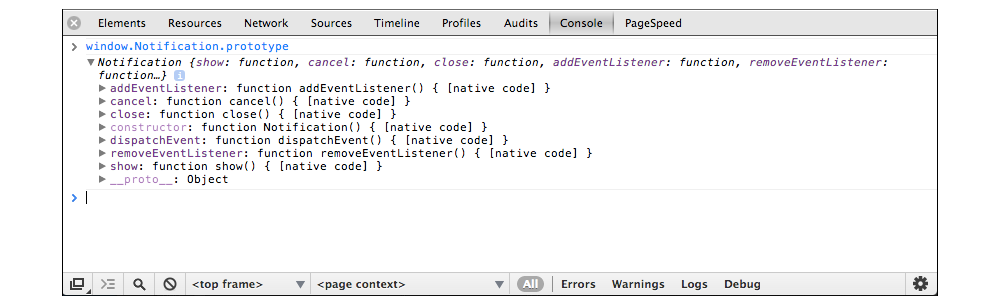
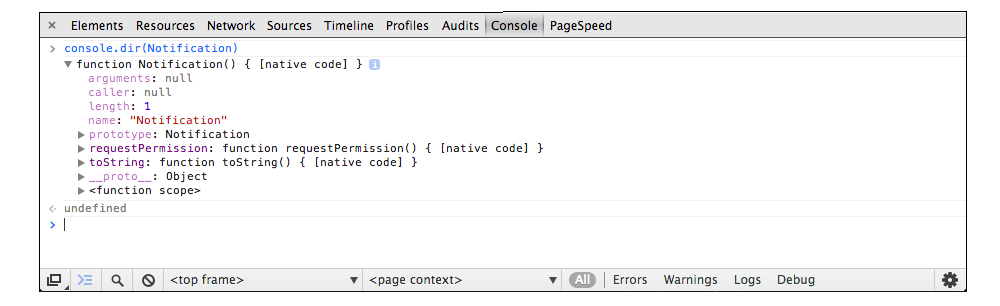
Web Notifications blog post is ready.

Changed region(s): [[0.031, 0.0294, 0.992, 0.7059], [0.031, 0.8529, 0.961, 0.9706]]

diff --git a/source/_posts/2013-07-15-the-messy-state-of-web-notifications-in-chrome-safari-blink-webkit.md b/source/_posts/2013-07-15-the-messy-state-of-web-notifications-in-chrome-safari-blink-webkit.md
@@ -1,17 +1,17 @@
 ---
 layout: post
-title: "The messy world of Web Notifications in Chrome, Safari, Blink and Webkit"
-date: 2013-07-09 01:00
+title: "The messy state of Web Notifications in Chrome's Blink, and Safari's Webkit"
+date: 2013-07-15 19:21
 published: true
 comments: true
 categories:
 ---
 
-Lately I've been working with the [Web Notifications API](http://notifications.spec.whatwg.org/), and while working I realized that Chrome ins't following the specification. In this post I will take you through the messy world of Web Notifications.
+Lately I've been working with the [Web Notifications API](http://notifications.spec.whatwg.org/), and while working I realized that Chrome ins't following the specification. In this post I will take you through the messy state of Web Notifications.
 
 Showing desktop notifications from the web, was a web-dream for many frontend-developers, until [Fluid](http://fluidapp.com/) enabled it via an [Growl](http://growl.info/) integration in OSX and exposed it as JavaScript API in Fluid. It became quite popular, and many web2.0 cool cats like [Basecamp](http://37signals.com/svn/posts/797-fluid-wrap-your-favorite-web-apps-in-their-own-browser) integrated with it, either themselves or in user scripts by their users.
 
-Soon after followed WebKit-based browsers via it's own notification system, and exposed as an webkit-prefixed API. The Webkit notifications was available on all major platforms, but never became popular. Most likely because the of each notification wasn't pretty.
+Soon after followed WebKit-based browsers via it's own notification system, and exposed as an webkit-prefixed API. The Webkit notifications was available on all major platforms, but never became popular. Most likely because the of each notification wasn't what I could call pretty.
 
 {% img "" /images/webkit_notification.png "Source: http://www.neowin.net/news/chrome-gets-desktop-notifications-through-webkit" %}
 
@@ -27,7 +27,7 @@ This is where the mess began.
 
 The W3C Web Notifications specification (now referred as the "the standard") is quite simplistic, and exposes  a ```Notification``` object to represent a single notification.
 
-Below is the IDL for the standardized API. Here it's important to notice the two static attributes used to request and get permission state.
+Below is the IDL for the standardized API. Here it's important to notice the static attribute ```permission``` which is get the current permission state.
 
 	[Constructor(DOMString title, optional NotificationOptions options)]
 	interface Notification : EventTarget {
@@ -66,14 +66,14 @@ Below is the IDL for the standardized API. Here it's important to notice the two
 
 ## Chrome and it's faulty implementation.
 
-The reason why I'm highlighting the two static attributes ```permission``` and  ```requestPermission```, is because they simply are missing in Chrome.
-
-Below is a screenshot of me inspecting the ```Notification``` object's prototype in Chrome 27's DevTools.
+The reason why I'm highlighting the static accessor ```permission``` is because it's problematic in Chrome. In the screenshot below I'm inspecting the ```Notification``` in Chrome 27's DevTools.
 {% img "" /images/chrome_web_notifications.png "" %}
 
-This makes it impossible to request or get the current permission state in Chrome when trying to follow the standard. Since Chrome still keeps the [non-standard webkit-prefixed API](http://www.chromium.org/developers/design-documents/desktop-notifications/api-specification) around, you have to fallback to that, which is completely different then the standard.
+As you can see, the ```permission``` attribute is simply missing from the ```Notification```, which makes it impossible to get the current permission state in Chrome.
 
-The webkit-specific API is exposed on ```webkitNotifications```, webkit-prefixed and in plural. The method ```requestPermission``` has the same signature as the standard, but to get the permission-state you have to call ```checkPermission``` which returns an ```integer```, and not a ```string``` as in the standard.
+Luckily since Chrome still keeps the [non-standard webkit-prefixed API](http://www.chromium.org/developers/design-documents/desktop-notifications/api-specification) around, we can to fallback to it, but it's has a completely different return signature than the standard. Sigh.
+
+The webkit-specific API is exposed on ```webkitNotifications```, webkit-prefixed and in plural. To get the current permission-state you have to call ```checkPermission``` which returns an ```integer```, and not a ```string``` as defined in the standard.
 
 This is messy, but it gets worse.
 
@@ -92,7 +92,7 @@ When Safari 6 was released, the Web Notifications specification was modeled afte
 	    attribute DOMString[] privilegedFeatures;
 	};
 
-This means we have WebKit builds out there, where you need to call the function ```permissionLevel``` to get the current permisssion state. So even with a standard in place, we need to handle the different versions of the standard.
+This means we got WebKit builds out there, where you need to call the function ```permissionLevel``` to get the current permisssion state. So even with a standard in place, we need to handle the different versions of the standard.
 
 That's messy!
 
@@ -102,7 +102,9 @@ To make keep things sane, an engineer from Apple, committed a [change in Webkit]
 
 So wouldn't it be nice if all these messy parts were abstracted away, so you as a front-end developer, just could show those nice notifications?
 
-We already a bunch of library out there like [notify.js](http://notifyjs.com/), to help even out the browser differences, but I haven't been able to find a library that caters for these specific problems in Safari and Chrome. Existing libraries also provides an new API, which isn't what I want, since I quite like the API defined in the specification. I'm not interesting in emulating the API if Web Notifications isn't available The aim is to fix the faulty implementation.
+We already a bunch of library out there like [notify.js](http://notifyjs.com/), to help even out the browser differences, but I haven't been able to find a library that caters for these specific problems in Safari and Chrome. Existing libraries also provides an new API, which isn't what I want, since I quite like the API defined in the specification.
+
+I'm not interesting in emulating the API if Web Notifications isn't available The aim is to fix the faulty implementation.
 
 What we need is a kind of polyfil, to even out the messy implementations within Webkit and Blink, used by Chrome and Safari.
 
@@ -110,9 +112,14 @@ What we need is a kind of polyfil, to even out the messy implementations within 
 
 Let me introduce [WebNotification.js](https://github.com/auchenberg/WebNotification.js), a polyfil for ```Notification```, that makes Chrome and other webkit-based browsers standards-compliant.
 
-Simply construct ```Notification``` and it returns an instance of a ```Notification```, like you would expect. When requesting permissions, it follows the specification(s), and fallsback to the prefixed webkit API, if available.
+Simply construct ```Notification``` and it returns an instance of a ```Notification```, like you would expect. When requesting permissions, it follows the specification(s), and fallsback to the prefixed webkit API, when available. To demonstrate the need WebNotification.js I did a small JsFiddle with a little demo where you can request permissions and show a simple notification.
 
-This should even out the browser differences and make it possible for you to show notifications in Firefox (as of version 22), Chrome 27+, and Safari 6+, when using the standardized API.
+<figure>
+	<iframe width="100%" height="300" src="http://jsfiddle.net/auchenberg/sFE4Q/embedded/" allowfullscreen="allowfullscreen" frameborder="0"></iframe>
+</figure>
+
+[WebNotification.js](https://github.com/auchenberg/WebNotification.js) evens-out the fauly implementation in Chrmoe and enables you to show notifications in Chrome 27+, Safari 6+, and Firefox (as of version 22) all using the standardized API.
+
 
 ## Going forward in Blink and Webkit.
 
@@ -132,7 +139,7 @@ Rich Notifications is really exciting from an experience perspective, and provid
 
 From a standardization perspective  Rich Notifications is a bit worrying, as it's available as a chrome-specific API, which potentially makes the future of Web Notifications even more messy.
 
-I hope we sometime in the future can take the learnings from Rich Notifications in Chrome, and bring them to the Web Notifications specification.
+I hope we sometime in the future can take the learnings from Rich Notifications in Chrome, and bring them to the Web Notifications specification, now when we have the Web Notifications API supported in Chrome, Safari and Firefox (as of Firefox 22).
 
-May the best notification win!
+Until then, enjoy the now fully working Web Notifiations in Chrome.
 
